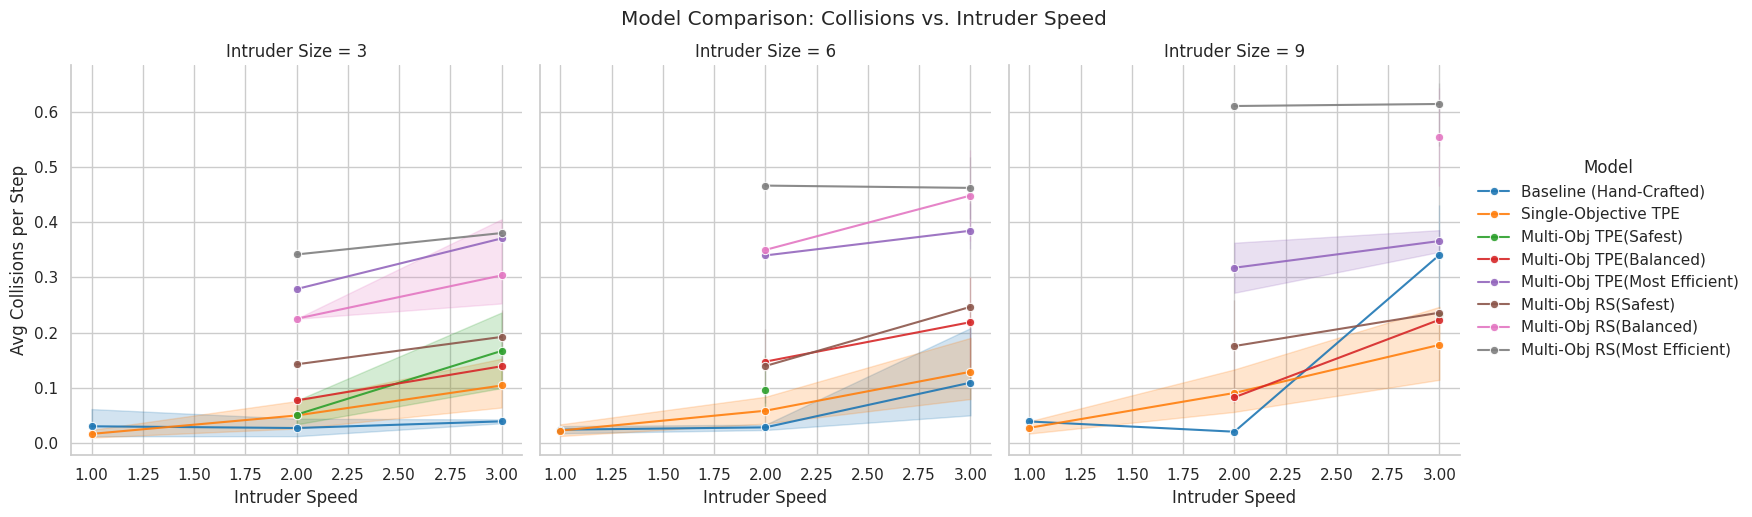
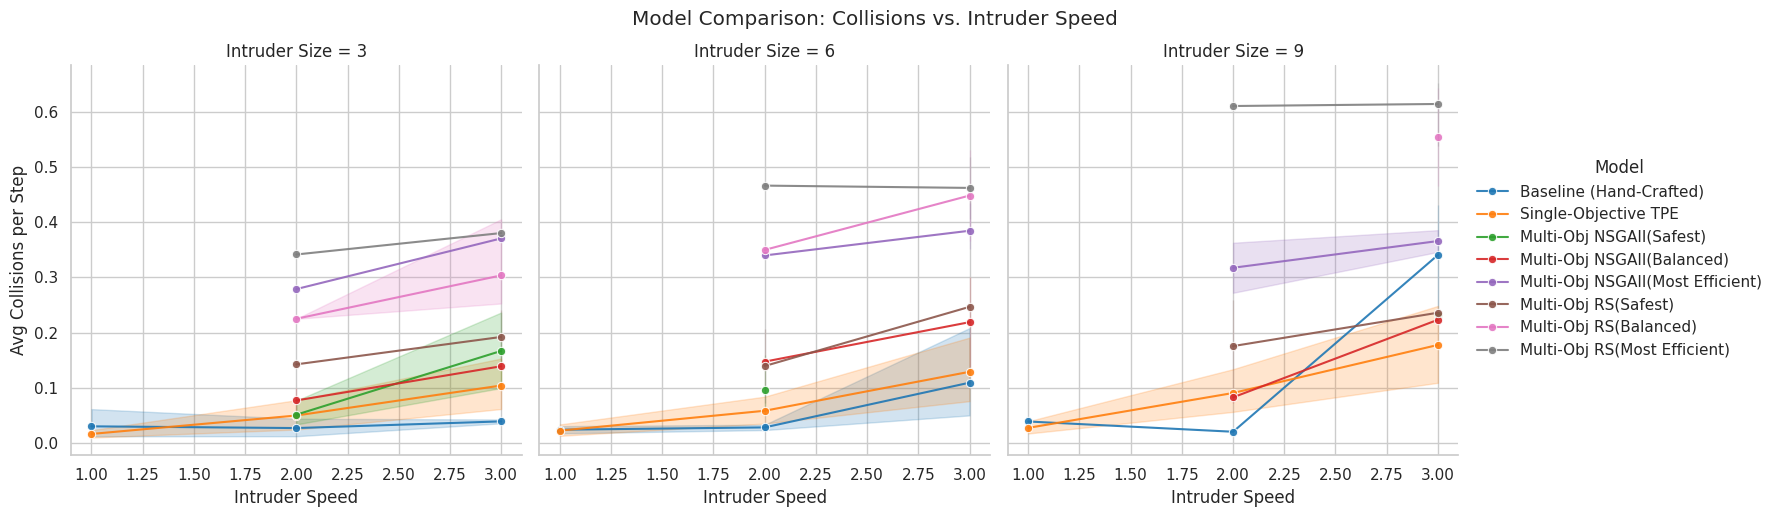
MOTPE implementation

diff --git a/scripts/OptunaMultiObjective/plot_intruder_compare_with_baseline.py b/scripts/OptunaMultiObjective/plot_intruder_compare_with_baseline.py
@@ -17,9 +17,9 @@ multi_obj_base_path = "results/Training_7"
 # *** CORRECTED: Swapped paths to match your analysis ***
 # Trial 155 is the safest (lowest collision rate)
 # Trial 20 is the most efficient (lowest deviation)
-mo_model_safe_csv_path = os.path.join(multi_obj_base_path, "evaluation_safest.csv")
-mo_model_balanced_csv_path = os.path.join(multi_obj_base_path, "evaluation_balanced.csv") 
-mo_model_efficient_csv_path = os.path.join(multi_obj_base_path, "evaluation_most_efficient.csv")
+NSGAII_model_safe_csv_path = os.path.join(multi_obj_base_path, "evaluation_safest.csv")
+NSGAII_model_balanced_csv_path = os.path.join(multi_obj_base_path, "evaluation_balanced.csv") 
+NSGAII_model_efficient_csv_path = os.path.join(multi_obj_base_path, "evaluation_most_efficient.csv")
 
 # Multi-Obj Random Sampler
 random_sampler_base_path = "models/best_model_24_50_PBRS_Random_Sampler"
@@ -39,14 +39,14 @@ try:
     # Load all data sources
     df_base = pd.read_csv(base_model_csv_path)
     df_single_obj = pd.read_csv(single_objective_model_csv_path)
-    df_mo_safe = pd.read_csv(mo_model_safe_csv_path)
-    df_mo_balanced = pd.read_csv(mo_model_balanced_csv_path)
-    df_mo_efficient = pd.read_csv(mo_model_efficient_csv_path)
+    df_NSGAII_safe = pd.read_csv(NSGAII_model_safe_csv_path)
+    df_NSGAII_balanced = pd.read_csv(NSGAII_model_balanced_csv_path)
+    df_NSGAII_efficient = pd.read_csv(NSGAII_model_efficient_csv_path)
     df_rs_safe = pd.read_csv(random_sampler_safest_path)
     df_rs_balanced = pd.read_csv(random_sampler_balanced_path)
     df_rs_efficient = pd.read_csv(random_sampler_most_efficient_path)
 
-    all_dfs = [df_base, df_single_obj, df_mo_safe, df_mo_balanced, df_mo_efficient, df_rs_safe, df_rs_balanced, df_rs_efficient]
+    all_dfs = [df_base, df_single_obj, df_NSGAII_safe, df_NSGAII_balanced, df_NSGAII_efficient, df_rs_safe, df_rs_balanced, df_rs_efficient]
     
     # Clean column names
     for df in all_dfs:
@@ -56,9 +56,9 @@ try:
     # *** This section is now correct because the DataFrames were loaded correctly above ***
     df_base['Model'] = 'Baseline (Hand-Crafted)'
     df_single_obj['Model'] = 'Single-Objective TPE'
-    df_mo_safe['Model'] = 'Multi-Obj TPE(Safest)'
-    df_mo_balanced['Model'] = 'Multi-Obj TPE(Balanced)'
-    df_mo_efficient['Model'] = 'Multi-Obj TPE(Most Efficient)'
+    df_NSGAII_safe['Model'] = 'Multi-Obj NSGAII(Safest)'
+    df_NSGAII_balanced['Model'] = 'Multi-Obj NSGAII(Balanced)'
+    df_NSGAII_efficient['Model'] = 'Multi-Obj NSGAII(Most Efficient)'
     df_rs_safe['Model'] = 'Multi-Obj RS(Safest)'
     df_rs_balanced['Model'] = 'Multi-Obj RS(Balanced)'
     df_rs_efficient['Model'] = 'Multi-Obj RS(Most Efficient)'
@@ -75,9 +75,9 @@ except FileNotFoundError as e:
 model_order = [
     'Baseline (Hand-Crafted)',
     'Single-Objective TPE',
-    'Multi-Obj TPE(Safest)',
-    'Multi-Obj TPE(Balanced)',
-    'Multi-Obj TPE(Most Efficient)',
+    'Multi-Obj NSGAII(Safest)',
+    'Multi-Obj NSGAII(Balanced)',
+    'Multi-Obj NSGAII(Most Efficient)',
     'Multi-Obj RS(Safest)',
     'Multi-Obj RS(Balanced)',
     'Multi-Obj RS(Most Efficient)',

diff --git a/scripts/OptunaMultiObjective/train_optuna_manager.py b/scripts/OptunaMultiObjective/train_optuna_manager.py
@@ -4,7 +4,7 @@ import subprocess
 import json
 import os
 import re
-from optuna.samplers import RandomSampler
+from optuna.multi_objective.samplers import MOTPEMultiObjectiveSampler
 
 def objective(trial: optuna.Trial) -> float:
     """
@@ -86,9 +86,9 @@ def objective(trial: optuna.Trial) -> float:
 
 # --- Main script execution ---
 if __name__ == "__main__":
-    sampler = RandomSampler(seed=42)
+    sampler = MOTPEMultiObjectiveSampler(seed=42)
     study = optuna.create_study(
-        study_name="IntruderAvoidance-PBRS-MultiObjective-RandomSampler", # New name is recommended
+        study_name="IntruderAvoidance-PBRS-MultiObjective-MOTPE", # New name is recommended
         directions=["minimize", "minimize"], # Specify a direction for EACH objective
         storage="sqlite:///pbrs_tuning.db",
         sampler=sampler,
